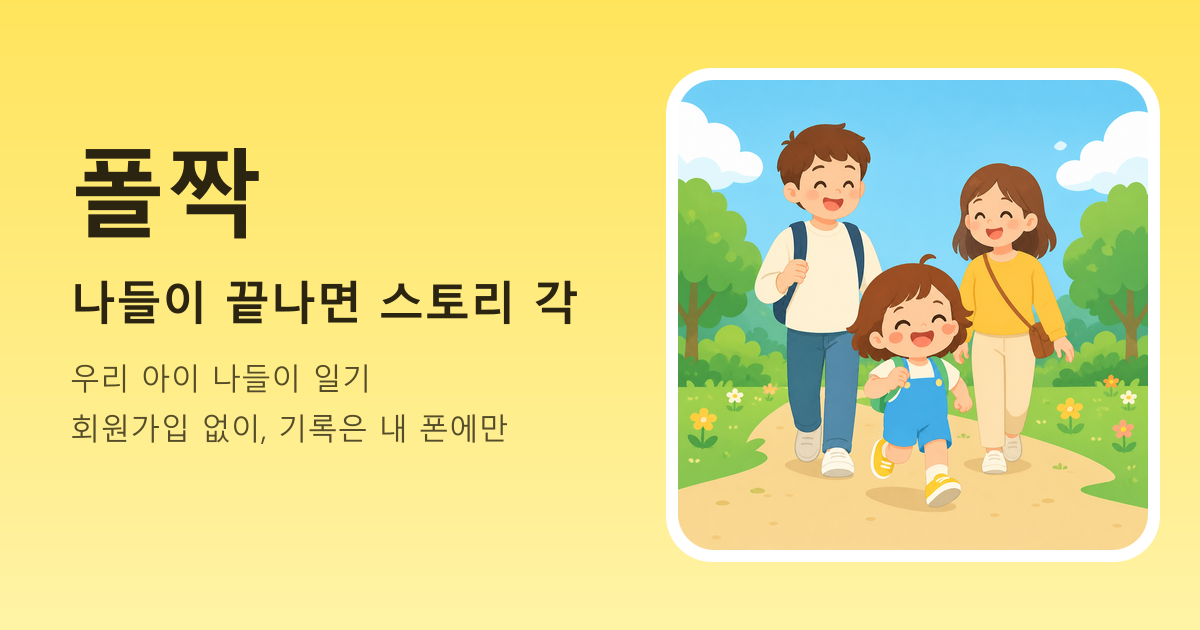
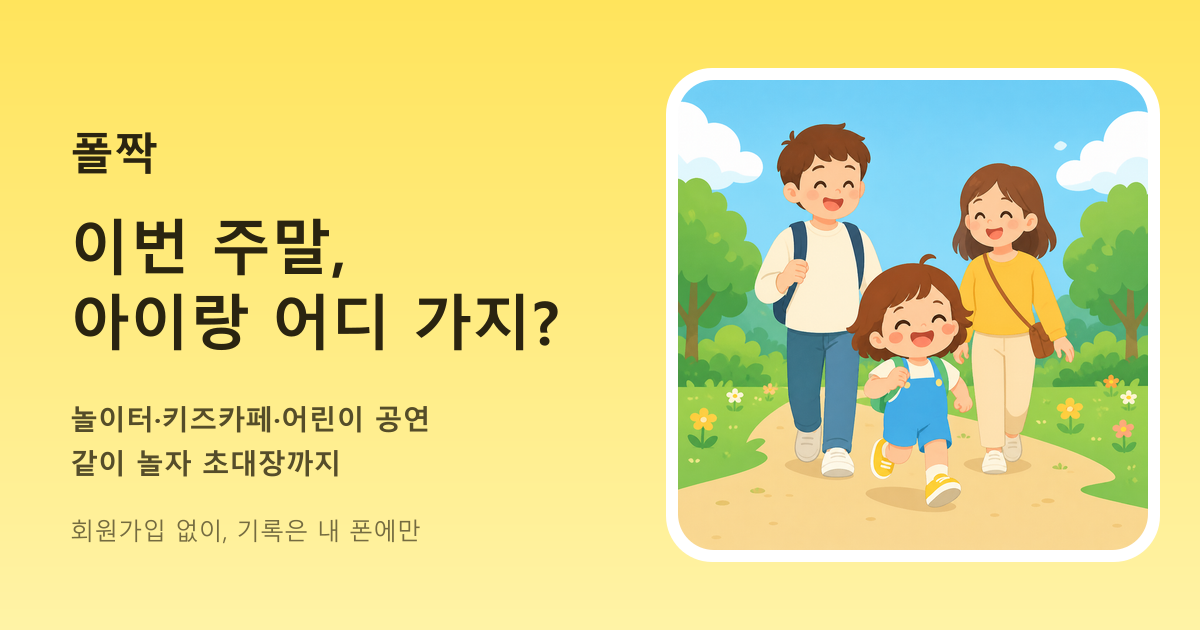
feat(poljjak): link preview and page meta speak 1.1.0
Title 폴짝 - 아이랑 갈 곳·나들이 기록; og.png headline 이번 주말, 아이랑 어디 가지?;
og:image gets ?v=2 so KakaoTalk and others refetch it.

Changed region(s): [[0.0617, 0.2111, 0.4933, 0.754], [0.0617, 0.8143, 0.3392, 0.8746]]

diff --git a/poljjak/index.html b/poljjak/index.html
@@ -3,10 +3,10 @@
   <head>
     <meta charset="UTF-8" />
     <meta name="viewport" content="width=device-width, initial-scale=1.0" />
-    <title>폴짝 - 우리 아이 나들이 일기</title>
+    <title>폴짝 - 아이랑 갈 곳·나들이 기록</title>
     <meta
       name="description"
-      content="나들이 끝나면 스토리 각. 오늘 아이와 걸은 시간과 거리, 가장 예쁜 사진을 스토리 카드 한 장으로. 회원가입 없이, 기록은 내 폰에만."
+      content="이번 주말, 아이랑 어디 가지? 가까운 놀이터·키즈카페·어린이 공연과 축제를 한눈에. 같이 놀 친구 가족에게 초대장을 보내고, 다녀온 나들이는 기록으로. 회원가입 없이, 기록은 내 폰에만."
     />
     <meta name="theme-color" content="#FFE45C" />
     <link rel="icon" type="image/png" href="/poljjak/img/icon.png" />
@@ -14,20 +14,20 @@
     <link rel="canonical" href="https://poljjak.lunenlabs.com/" />
 
     <meta property="og:type" content="website" />
-    <meta property="og:title" content="폴짝 - 우리 아이 나들이 일기" />
-    <meta property="og:description" content="나들이 끝나면 스토리 각. 아이와의 나들이를 예쁜 카드 한 장으로." />
-    <meta property="og:image" content="https://poljjak.lunenlabs.com/poljjak/img/og.png" />
+    <meta property="og:title" content="폴짝 - 아이랑 갈 곳·나들이 기록" />
+    <meta property="og:description" content="이번 주말, 아이랑 어디 가지? 가까운 놀이터·키즈카페·어린이 공연과 축제를 한눈에, 같이 놀 친구 가족에게 초대장까지." />
+    <meta property="og:image" content="https://poljjak.lunenlabs.com/poljjak/img/og.png?v=2" />
     <meta property="og:image:width" content="1200" />
     <meta property="og:image:height" content="630" />
-    <meta property="og:image:alt" content="폴짝 나들이 카드" />
+    <meta property="og:image:alt" content="폴짝: 이번 주말, 아이랑 어디 가지? 공원 길을 걷는 가족 그림" />
     <meta property="og:url" content="https://poljjak.lunenlabs.com/" />
     <meta property="og:site_name" content="폴짝" />
     <meta property="og:locale" content="ko_KR" />
 
     <meta name="twitter:card" content="summary_large_image" />
-    <meta name="twitter:title" content="폴짝 - 우리 아이 나들이 일기" />
-    <meta name="twitter:description" content="나들이 끝나면 스토리 각. 아이와의 나들이를 예쁜 카드 한 장으로." />
-    <meta name="twitter:image" content="https://poljjak.lunenlabs.com/poljjak/img/og.png" />
+    <meta name="twitter:title" content="폴짝 - 아이랑 갈 곳·나들이 기록" />
+    <meta name="twitter:description" content="이번 주말, 아이랑 어디 가지? 가까운 놀이터·키즈카페·어린이 공연과 축제를 한눈에, 같이 놀 친구 가족에게 초대장까지." />
+    <meta name="twitter:image" content="https://poljjak.lunenlabs.com/poljjak/img/og.png?v=2" />
 
     <link
       rel="stylesheet"
